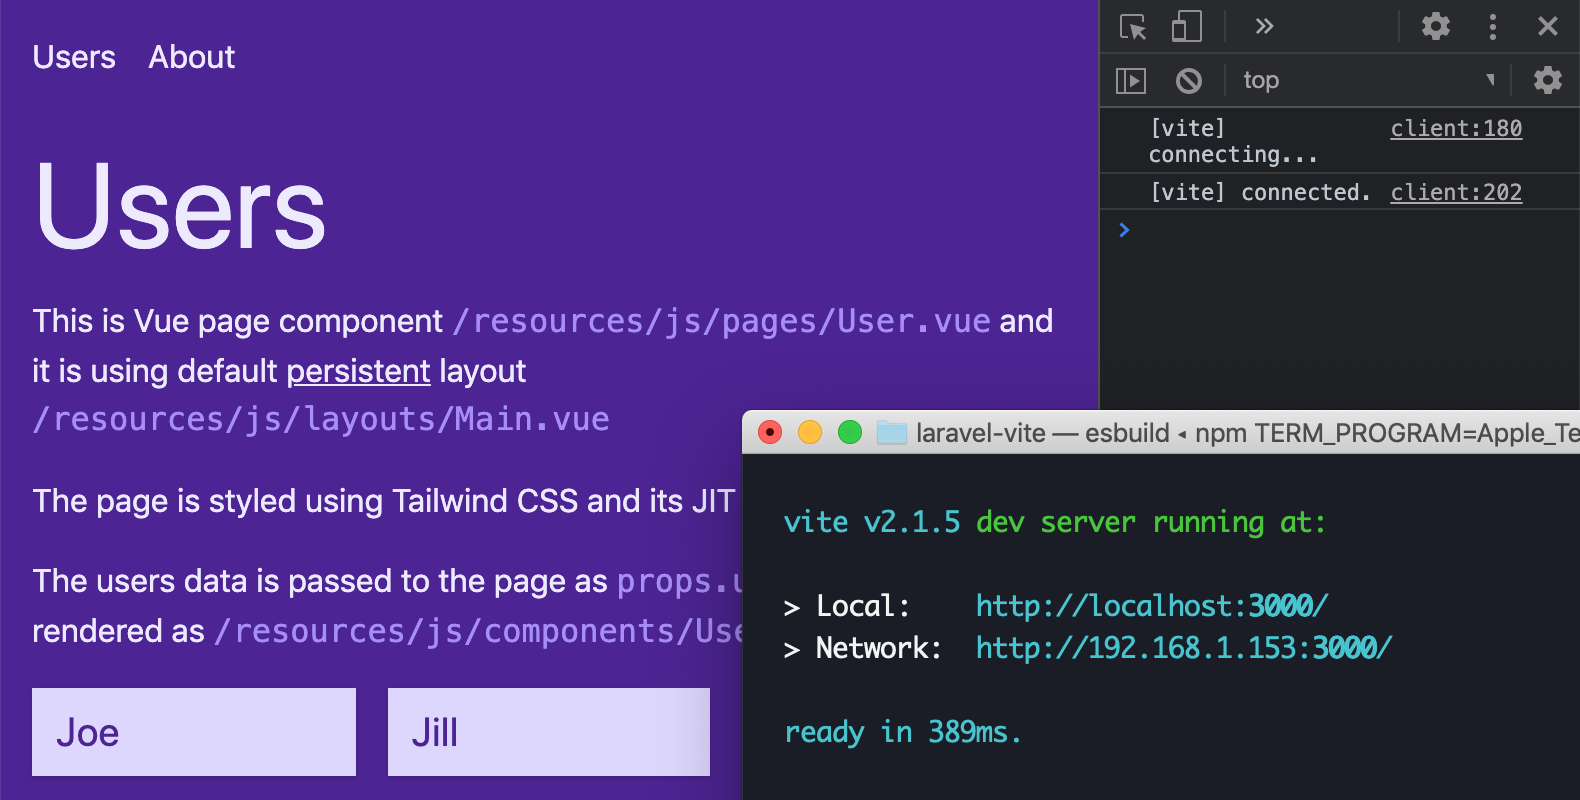
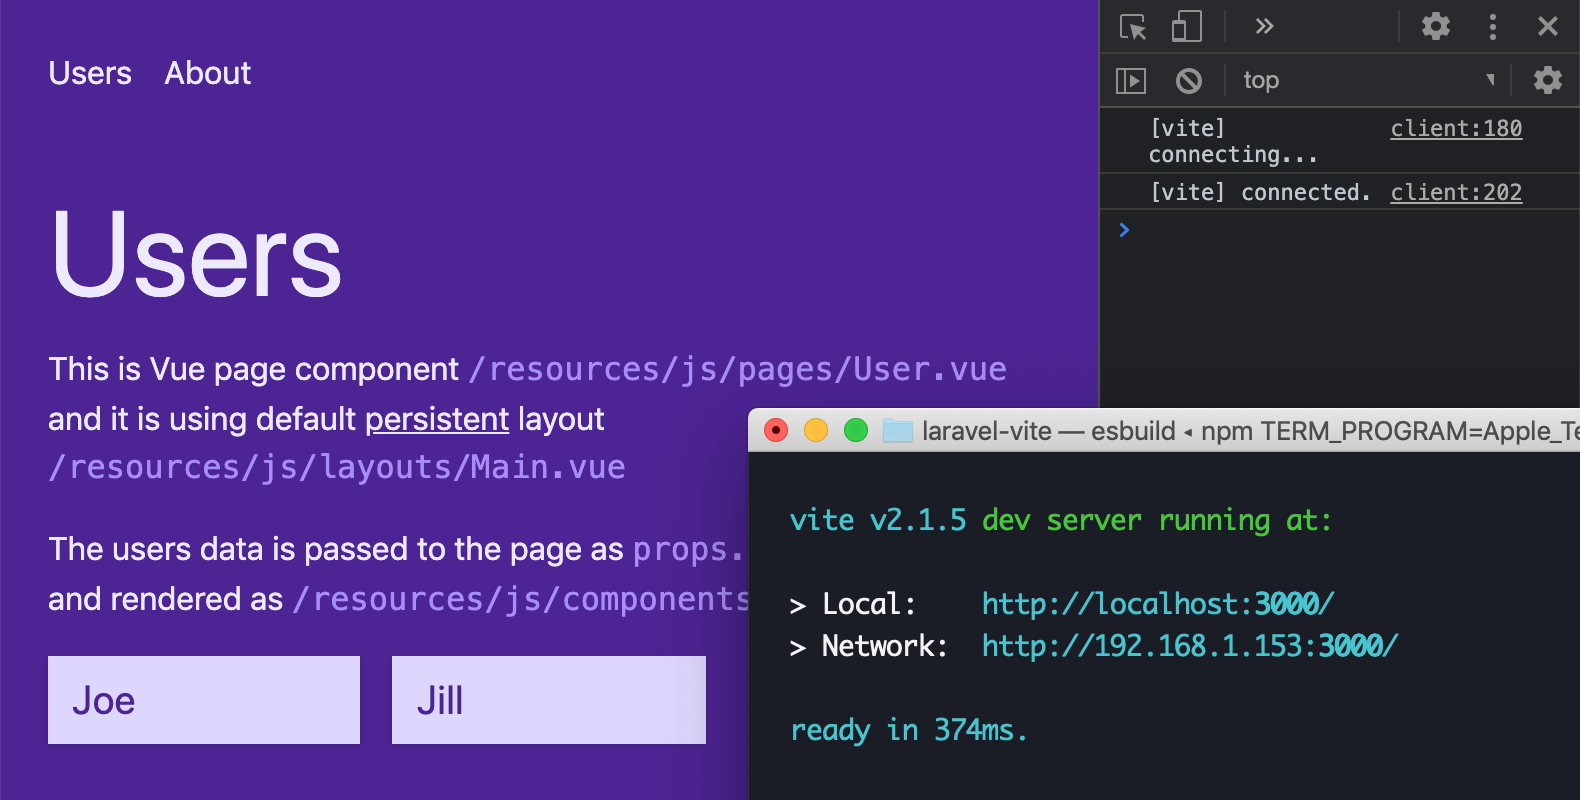
chore: fixes

Changed region(s): [[0.0, 0.1875, 1.0, 1.0], [0.6203, 0.7188, 0.8994, 0.8438], [0.031, 0.0625, 0.1551, 0.125]]

diff --git a/resources/js/pages/Users.vue b/resources/js/pages/Users.vue
@@ -18,15 +18,13 @@ const { props } = usePage();
             layout
             <code class="text-purple-400">/resources/js/layouts/Main.vue</code>
         </p>
-        <p>The page is styled using Tailwind CSS and its JIT compiler.</p>
         <p>
             The users data is passed to the page as
             <code class="text-purple-400">props.users</code> via Inertia and
             rendered as
             <code class="text-purple-400">
-                /resources/js/components/User.vue
-            </code>
-            component.
+                /resources/js/components/User.vue</code
+            >
         </p>
         <div class="grid grid-cols-3 gap-4">
             <user v-for="(user, i) in props.users" :key="i" :user="user" />

diff --git a/resources/js/pages/About.vue b/resources/js/pages/About.vue
@@ -18,7 +18,6 @@ export default { layoutName: "Narrow" };
                 /resources/js/layouts/Narrow.vue
             </code>
         </p>
-        <p>The page is styled using Tailwind CSS and its JIT compiler.</p>
         <p>
             The users data is passed to the page as
             <code class="text-purple-400">props.about</code> via Inertia.

diff --git a/resources/js/layouts/Narrow.vue b/resources/js/layouts/Narrow.vue
@@ -1,9 +1,9 @@
 <template>
-    <div class="p-4 space-x-4">
+    <div class="p-6 space-x-4">
         <inertia-link href="/">Users</inertia-link>
         <inertia-link href="/about">About</inertia-link>
     </div>
-    <div class="p-4 w-full md:w-[50ch]">
+    <div class="p-6 w-full md:w-[50ch]">
         <slot />
     </div>
 </template>

diff --git a/resources/js/layouts/Main.vue b/resources/js/layouts/Main.vue
@@ -1,9 +1,9 @@
 <template>
-    <div class="p-4 space-x-4">
+    <div class="p-6 space-x-4">
         <inertia-link href="/">Users</inertia-link>
         <inertia-link href="/about">About</inertia-link>
     </div>
-    <div class="p-4">
+    <div class="p-6">
         <slot />
     </div>
 </template>
